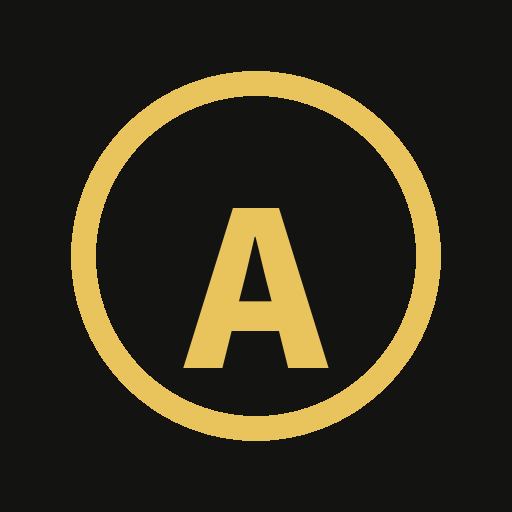
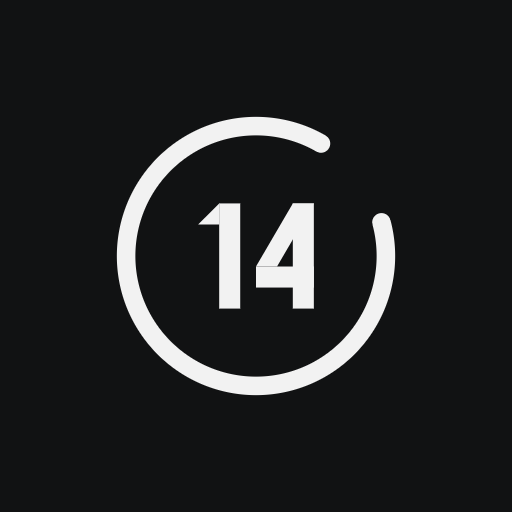
1414 브랜드 적용: 로고(조합형·심볼·워드마크 인라인 SVG), 앱 아이콘·파비콘·OG, 제목·매니페스트
- design_handoff_1414_logo 스펙: 사이드바 lockup 26px + 팀 알약(gap 10), 로그인 심볼 56 + 워드마크, 무대 바 심볼 20px, 아이콘 PNG 교체, favicon 32/16, og 1200x630
- 색은 currentColor 로 라이트/다크 자동 반전 (무대 바: 검정 바 위 흰 심볼, 밝은 바 위 검정 심볼)

Claude-Session: https://claude.ai/code/session_015c3Tn8PEH1JgxWWzmGK8AT

Changed region(s): [[0.125, 0.125, 0.875, 0.875]]

diff --git a/app/index.html b/app/index.html
@@ -9,9 +9,16 @@
 <meta name="color-scheme" content="light dark">
 <link rel="manifest" href="manifest.webmanifest">
 <link rel="apple-touch-icon" href="icon-180.png">
-<meta name="apple-mobile-web-app-title" content="콘티">
+<meta name="apple-mobile-web-app-title" content="1414">
+<link rel="icon" type="image/png" sizes="32x32" href="favicon-32.png">
+<link rel="icon" type="image/png" sizes="16x16" href="favicon-16.png">
+<meta property="og:title" content="1414 — 찬양팀 콘티 · 연습 · 무대">
+<meta property="og:description" content="곡 순서·키·송폼·악보·참고 영상을 한 화면에. 인도자가 발행하면 팀원은 자기 세션 메모와 함께 연습하고 무대에 섭니다.">
+<meta property="og:image" content="https://lets1414.vercel.app/og.png">
+<meta property="og:type" content="website">
+<meta name="twitter:card" content="summary_large_image">
 
-<title>콘티 — 찬양팀 콘티 · 연습 · 무대</title>
+<title>1414 — 찬양팀 콘티 · 연습 · 무대</title>
 <link rel="preconnect" href="https://cdn.jsdelivr.net" crossorigin>
 <link rel="preconnect" href="https://api.fontshare.com" crossorigin>
 <link rel="stylesheet" href="https://cdn.jsdelivr.net/gh/orioncactus/pretendard@v1.3.9/dist/web/variable/pretendardvariable-dynamic-subset.min.css">
@@ -371,6 +378,13 @@ html.dark .msgbody{background:#1C1C1C}
 .slice.tool .chd.edit{pointer-events:auto;cursor:pointer}
 .chdbox{position:absolute;border:1.5px dashed #C0392B;border-radius:3px;pointer-events:auto;cursor:pointer;z-index:2;background:rgba(192,57,43,.06)}
 .chordbar{display:flex;align-items:center;gap:6px;flex-wrap:wrap;margin:0 0 8px -32px;padding:6px 8px;border:1px solid var(--line);border-radius:var(--r-lg);background:var(--panel2);font-size:12px}
+.logo{display:block;flex:0 0 auto;color:var(--fg)}
+.side .head{gap:10px}
+.logostack{display:flex;flex-direction:column;align-items:flex-start;gap:14px}
+.logostack.sm{align-items:center;gap:10px;margin-bottom:22px}
+.auth-side .logostack{color:#F2F2F2}
+.stagelogo{display:inline-flex;align-items:center;padding:0 12px 0 0;margin-left:0;color:inherit;flex:0 0 auto}
+.stagelogo .logo{color:inherit}
 .avatar{width:30px;height:30px;border-radius:50%;background:var(--primary);color:var(--primary-fg);display:inline-flex;align-items:center;justify-content:center;font-size:12px;font-weight:700;flex:0 0 auto}
 
 /* ---------- 인증·팀 게이트 (항상 다크, 2단) ---------- */
@@ -517,7 +531,7 @@ function homeHTML(){
   return `<div class="svcrow ${past?'past':''} rise d${Math.min(i,3)}" data-act="open-svc" data-id="${s.id}"><div class="date"><b>${esc(d.md)}</b><span>${esc(d.w)}</span></div><div class="grow"><div class="t">${esc(s.name||'(이름 없음)')}</div><div class="s"><span>${s.items.length}곡</span>${st}</div></div>
    <div class="row">${lead?`<button class="btn sm" data-act="edit-svc" data-id="${s.id}">${ic('pen')}편집</button>`:''}<button class="btn sm ${lead?'':'pri'}" data-act="view-svc" data-id="${s.id}">${ic('eye')}콘티</button>${lead?`<button class="icon sm ghost" data-act="del-svc" data-id="${s.id}" title="삭제">${ic('trash')}</button>`:''}</div></div>`}).join('');
  return `<div class="shell">
-  <aside class="side"><div class="box"><div class="head"><span class="brand">콘티</span><span class="pill">${on?esc(S.team.name||'팀'):'기기 전용'}</span></div><nav>${nav}</nav>
+  <aside class="side"><div class="box"><div class="head">${logoLockup(26)}<span class="pill">${on?esc(S.team.name||'팀'):'기기 전용'}</span></div><nav>${nav}</nav>
    <div class="foot"><span class="who"><b>${esc(m.name||'이름 없음')}</b><span>${esc(m.session)} · ${roleLabel(m.role)}</span></span></div></div></aside>
   <div class="main">
    <header class="hd"><div class="ttl"><h1>예배</h1><span class="date">${fmtToday()}</span></div>
@@ -634,7 +648,7 @@ function playHTML(svc,idx){
     </div></div>
   </div>
   <div class="gutter" title="드래그해서 폭 조절"></div>
-  <div class="panel" id="sheetpanel">${ptab('악보',`${it.pieces.length}조각`,`<span class="hint">마커 탭 = 메모</span>`)}<div class="stagebar"><button class="sbtn" data-act="pn" data-d="-1" ${prev?'':'disabled'}>${ic('left')}</button><span class="stagetitle">${idx+1}. ${esc(it.title||'')}${k?' / '+esc(k):''}</span><button class="sbtn" data-act="pn" data-d="1" ${next?'':'disabled'}>${ic('right')}</button><span class="stageform">${esc(it.form||'')}</span>${it.songNote?`<span class="stagenote">${esc(it.songNote)}</span>`:''}<span class="grow"></span><button class="sbtn" data-act="stage" title="무대 모드 끝내기">${ic('x')}</button></div><div class="sheetwrap" id="sheetwrap"><div class="sheet" id="sheet"></div></div></div>
+  <div class="panel" id="sheetpanel">${ptab('악보',`${it.pieces.length}조각`,`<span class="hint">마커 탭 = 메모</span>`)}<div class="stagebar"><span class="stagelogo">${logoSymbol(20)}</span><button class="sbtn" data-act="pn" data-d="-1" ${prev?'':'disabled'}>${ic('left')}</button><span class="stagetitle">${idx+1}. ${esc(it.title||'')}${k?' / '+esc(k):''}</span><button class="sbtn" data-act="pn" data-d="1" ${next?'':'disabled'}>${ic('right')}</button><span class="stageform">${esc(it.form||'')}</span>${it.songNote?`<span class="stagenote">${esc(it.songNote)}</span>`:''}<span class="grow"></span><button class="sbtn" data-act="stage" title="무대 모드 끝내기">${ic('x')}</button></div><div class="sheetwrap" id="sheetwrap"><div class="sheet" id="sheet"></div></div></div>
  </div>`;
 }
 
@@ -878,9 +892,9 @@ const SYNC={t:null,pulledAt:{},
  schedulePush(){if(!online())return;clearTimeout(SYNC.t);SYNC.t=setTimeout(()=>{const r=route();const svc=svcById(r.a);if(svc&&/^(edit|view|play)$/.test(r.name))SYNC.pushNotes(svc)},700)}
 };
 const GATE={mode:'login',err:'',user:'',sess:'',preview:null};
-function authShell(inner){return `<div class="auth"><aside class="auth-side"><span class="brand">콘티</span><div><p class="kick">찬양팀 콘티 · 연습 · 무대</p><blockquote>“콘티 한 장으로<br>팀 전체가 같은 곳을 봅니다.”</blockquote><p class="desc">곡 순서와 키, 송폼, 악보, 참고 영상을 한 화면에. 인도자가 발행하면 팀원은 자기 세션 메모와 함께 연습하고 무대에 섭니다.</p>
- <ul><li>${ic('send')}발행 한 번으로 카톡 공유 문구까지 자동 생성</li><li>${ic('marker')}악보 위 마커에 붙는 세션별 메모</li><li>${ic('moon')}네트워크 없이도 열리는 무대 모드</li></ul></div><p class="copy">© 2026 콘티</p></aside><div class="auth-main"><div class="auth-box">${inner}</div></div></div>`}
-function loginHTML(){const m=GATE.mode;return authShell(`<div class="auth-card"><div class="mlogo"><span class="brand">콘티</span></div><h1>${m==='login'?'로그인':'회원가입'}</h1><p class="sub">${m==='login'?'팀 계정으로 로그인해 콘티를 함께 봅니다.':'아이디와 비밀번호만 있으면 바로 시작할 수 있어요.'}</p>
+function authShell(inner){return `<div class="auth"><aside class="auth-side"><div class="logostack">${logoSymbol(56)}${logoWordmark(47,'')}</div><div><p class="kick">찬양팀 콘티 · 연습 · 무대 — 1414</p><blockquote>“콘티 한 장으로<br>팀 전체가 같은 곳을 봅니다.”</blockquote><p class="desc">곡 순서와 키, 송폼, 악보, 참고 영상을 한 화면에. 인도자가 발행하면 팀원은 자기 세션 메모와 함께 연습하고 무대에 섭니다.</p>
+ <ul><li>${ic('send')}발행 한 번으로 카톡 공유 문구까지 자동 생성</li><li>${ic('marker')}악보 위 마커에 붙는 세션별 메모</li><li>${ic('moon')}네트워크 없이도 열리는 무대 모드</li></ul></div><p class="copy">© 2026 1414 · lets1414.com</p></aside><div class="auth-main"><div class="auth-box">${inner}</div></div></div>`}
+function loginHTML(){const m=GATE.mode;return authShell(`<div class="auth-card"><div class="mlogo"><div class="logostack sm">${logoSymbol(40)}${logoWordmark(34)}</div></div><h1>${m==='login'?'로그인':'회원가입'}</h1><p class="sub">${m==='login'?'팀 계정으로 로그인해 콘티를 함께 봅니다.':'아이디와 비밀번호만 있으면 바로 시작할 수 있어요.'}</p>
  <div class="tabs"><button class="${m==='login'?'on':''}" data-act="lg-mode" data-m="login">로그인</button><button class="${m==='signup'?'on':''}" data-act="lg-mode" data-m="signup">회원가입</button></div>
  <div class="lbl">아이디</div><input class="field" id="lgUser" autocomplete="username" autocapitalize="none" spellcheck="false" placeholder="영문 소문자·숫자 3~20자" value="${esc(GATE.user)}">
  <div class="lbl">비밀번호</div><input class="field" id="lgPass" type="password" autocomplete="${m==='login'?'current-password':'new-password'}" placeholder="6자 이상">
@@ -888,7 +902,7 @@ function loginHTML(){const m=GATE.mode;return authShell(`<div class="auth-card">
  <div class="err" id="lgErr" role="alert">${esc(GATE.err)}</div>
  <button class="btn pri wide" data-act="lg-submit">${m==='login'?'로그인':'가입하고 시작'}</button>
  ${route().name==='join'?`<p class="fine">초대 링크로 오셨네요. 로그인하면 팀 가입으로 이어집니다.</p>`:''}</div>`)}
-function gateHTML(){const u=NET.user||{};return authShell(`<div class="auth-card"><div class="mlogo"><span class="brand">콘티</span></div><h1>${esc(u.name||u.username)}님, 반가워요</h1><p class="sub">아직 팀이 없어요. 초대 링크로 들어가거나 새 팀을 만드세요.</p>
+function gateHTML(){const u=NET.user||{};return authShell(`<div class="auth-card"><div class="mlogo"><div class="logostack sm">${logoSymbol(40)}${logoWordmark(34)}</div></div><h1>${esc(u.name||u.username)}님, 반가워요</h1><p class="sub">아직 팀이 없어요. 초대 링크로 들어가거나 새 팀을 만드세요.</p>
  <div class="lbl">초대 링크로 가입</div><div class="row"><input class="field" id="gtLink" placeholder="인도자가 보낸 링크 또는 코드"><button class="btn" data-act="join-go">열기</button></div><div class="err" id="gtErr"></div></div>
  <div class="auth-card"><h2>팀 만들기</h2><p class="sub">인도자가 팀을 만들고 초대 링크를 카톡에 붙여요.</p>
  <div class="lbl">팀 이름</div><input class="field" id="gtTeam" placeholder="LIKE 찬양팀">
@@ -896,7 +910,7 @@ function gateHTML(){const u=NET.user||{};return authShell(`<div class="auth-card
  <div class="lbl">내 세션</div><div id="gtSess">${DEF_SESS.map(x=>`<button class="q ${x===(GATE.sess||'인도자')?'on':''}" data-s="${esc(x)}">${esc(x)}</button>`).join('')}</div>
  <div class="err" id="gtErr2"></div><button class="btn pri wide" data-act="team-create">${ic('plus')}팀 만들고 인도자로 시작</button>
  <div class="foot"><span class="hint">${esc(u.username||'')}</span><button class="btn sm ghost" data-act="logout">${ic('logout')}로그아웃</button></div></div>`)}
-function joinHTML(tok){const p=GATE.preview,u=NET.user||{};return authShell(`<div class="auth-card"><div class="mlogo"><span class="brand">콘티</span></div>
+function joinHTML(tok){const p=GATE.preview,u=NET.user||{};return authShell(`<div class="auth-card"><div class="mlogo"><div class="logostack sm">${logoSymbol(40)}${logoWordmark(34)}</div></div>
  ${!p?`<h1>초대 확인 중…</h1><p class="sub">잠시만요.</p>`:p.error?`<h1>초대를 열 수 없어요</h1><p class="sub">${esc(p.error)}</p><button class="btn wide" style="margin-top:18px" data-act="go-home">처음으로</button>`:
  `<p class="kicker">팀 초대</p><h1 style="margin-top:6px">${esc(p.teamName)}</h1><p class="sub">멤버 ${p.count}명 · 이름과 세션만 고르면 바로 들어가요.</p>
   <div class="lbl">내 이름</div><input class="field" id="jnName" value="${esc(u.name||'')}">
@@ -933,7 +947,7 @@ async function teamModal(){
  $('#modal').onclick=async e=>{try{
   if(e.target.closest('#tmClose')){closeModal();render();return}
   if(e.target.closest('#tmCopy')){await copyText(link);toast('링크를 복사했어요');return}
-  if(e.target.closest('#tmKakao')){await copyText(`[${t.teamName}] 콘티 앱 초대\n아래 링크를 열어 가입하면 콘티를 같이 볼 수 있어요.\n${link}`);toast('카톡 문구를 복사했어요');return}
+  if(e.target.closest('#tmKakao')){await copyText(`[${t.teamName}] 1414 초대\n아래 링크를 열어 가입하면 콘티를 같이 볼 수 있어요.\n${link}`);toast('카톡 문구를 복사했어요');return}
   if(e.target.closest('#tmRotate')){if(!confirm('기존 링크는 못 쓰게 됩니다. 재발급할까요?'))return;applyMembership(await api('/teams/'+S.team.id+'/invite/rotate',{method:'POST'}));teamModal();return}
   const k=e.target.closest('[data-kick]');if(k){if(!confirm('이 멤버를 내보낼까요?'))return;await api('/teams/'+S.team.id+'/members/'+k.dataset.kick,{method:'DELETE'});teamModal();return}
   const sw=e.target.closest('[data-switch]');if(sw){applyMembership(await api('/teams/'+sw.dataset.switch));closeModal();render();return}
@@ -1068,6 +1082,14 @@ function chordEditModal(svc,it,p,cid,pos){const c=cid?(p.chords||[]).find(x=>x.i
   if(e.target.closest('#chDel')){p.chords=p.chords.filter(x=>x.id!==cid);finish();return}
   if(e.target.closest('#chOk')){const t=normAcc(inp.value);if(!isChordText(t)){toast('코드로 읽히지 않아요');inp.focus();return}
    if(c){c.text=t;c.fixed=true}else{const h=Math.round(p.w*0.018);p.chords=p.chords||[];p.chords.push({id:uid(),text:t,x:Math.round(pos.x),y:Math.round(pos.y-h/2),w:Math.round(h*0.62*t.length),h,conf:100,fixed:true})}finish()}}}
+
+/* ---------- 1414 로고 (design_handoff_1414_logo 지오메트리, 색은 currentColor) ---------- */
+const LG1='<polygon points="0,4 4,0 4,4"/><rect x="4" y="0" width="4" height="20"/>';
+const LG4='<rect x="7" y="0" width="4" height="20"/><rect x="0" y="12" width="11" height="4"/><polygon points="7,0 11,0 4,12 0,12"/>';
+const LGWM=`<g>${LG1}</g><g transform="translate(11,0)">${LG4}</g><g transform="translate(25,0)">${LG1}</g><g transform="translate(36,0)">${LG4}</g>`;
+const logoWordmark=(h,cls)=>`<svg class="logo wm ${cls||''}" viewBox="0 0 47 20" style="height:${h}px" fill="currentColor" role="img" aria-label="1414">${LGWM}</svg>`;
+const logoSymbol=(h,cls)=>`<svg class="logo sym ${cls||''}" viewBox="0 0 48 48" style="height:${h}px" role="img" aria-label="1414"><path d="M34.5,5.81 A21,21 0 1 0 44.28,18.56" fill="none" stroke="currentColor" stroke-width="3" stroke-linecap="round"/><g transform="translate(14.65,15.5) scale(0.85)" fill="currentColor"><g>${LG1}</g><g transform="translate(11,0)">${LG4}</g></g></svg>`;
+const logoLockup=(h,cls)=>`<svg class="logo lockup ${cls||''}" viewBox="0 0 83 28" style="height:${h}px" role="img" aria-label="1414"><path d="M20.12,4.05 A12.25,12.25 0 1 0 25.83,10.82" fill="none" stroke="currentColor" stroke-width="1.75" stroke-linecap="round"/><g transform="translate(8.55,9.8) scale(0.496)" fill="currentColor"><g>${LG1}</g><g transform="translate(11,0)">${LG4}</g></g><g transform="translate(36,4)" fill="currentColor">${LGWM}</g></svg>`;
 /* ---------- media helpers ---------- */
 function ytId(u){if(!u)return null;const m=u.match(/(?:youtu\.be\/|v=|\/embed\/|\/shorts\/|\/live\/)([A-Za-z0-9_-]{6,})/);return m?m[1]:null}
 const mdSess=md=>Array.isArray(md&&md.sessions)?md.sessions.filter(Boolean):[];

diff --git a/app/sw.js b/app/sw.js
@@ -1,7 +1,7 @@
 /* 콘티 service worker — 오프라인 지원.
    index.html: 네트워크 우선(새 버전 자동 반영), 실패 시 캐시.  나머지 같은 도메인 파일: 캐시 우선.  /api/ 는 절대 캐시하지 않음. */
-const CACHE = 'conti-shell-v2';
-const SHELL = ['./', './index.html', './manifest.webmanifest', './icon-180.png', './icon-512.png'];
+const CACHE = 'conti-shell-v3';
+const SHELL = ['./', './index.html', './manifest.webmanifest', './icon-180.png', './icon-512.png', './favicon-32.png', './favicon-16.png'];
 self.addEventListener('install', e => { e.waitUntil(caches.open(CACHE).then(c => c.addAll(SHELL)).then(() => self.skipWaiting())); });
 self.addEventListener('activate', e => { e.waitUntil(caches.keys().then(keys => Promise.all(keys.filter(k => k !== CACHE).map(k => caches.delete(k)))).then(() => self.clients.claim())); });
 self.addEventListener('fetch', e => {
